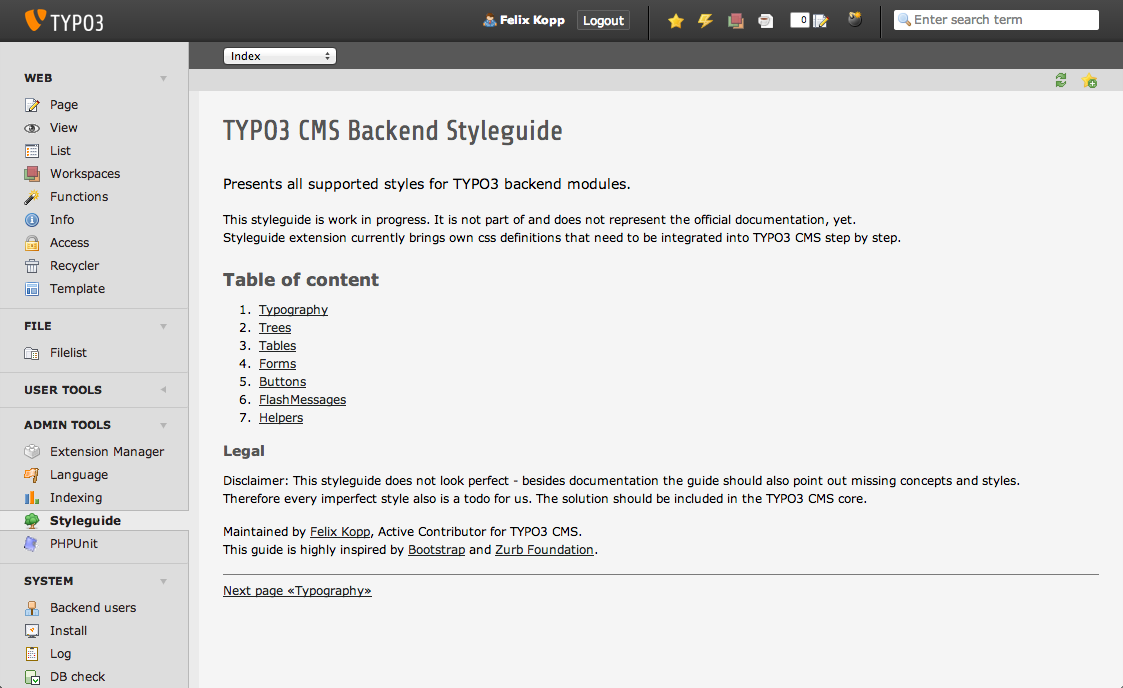
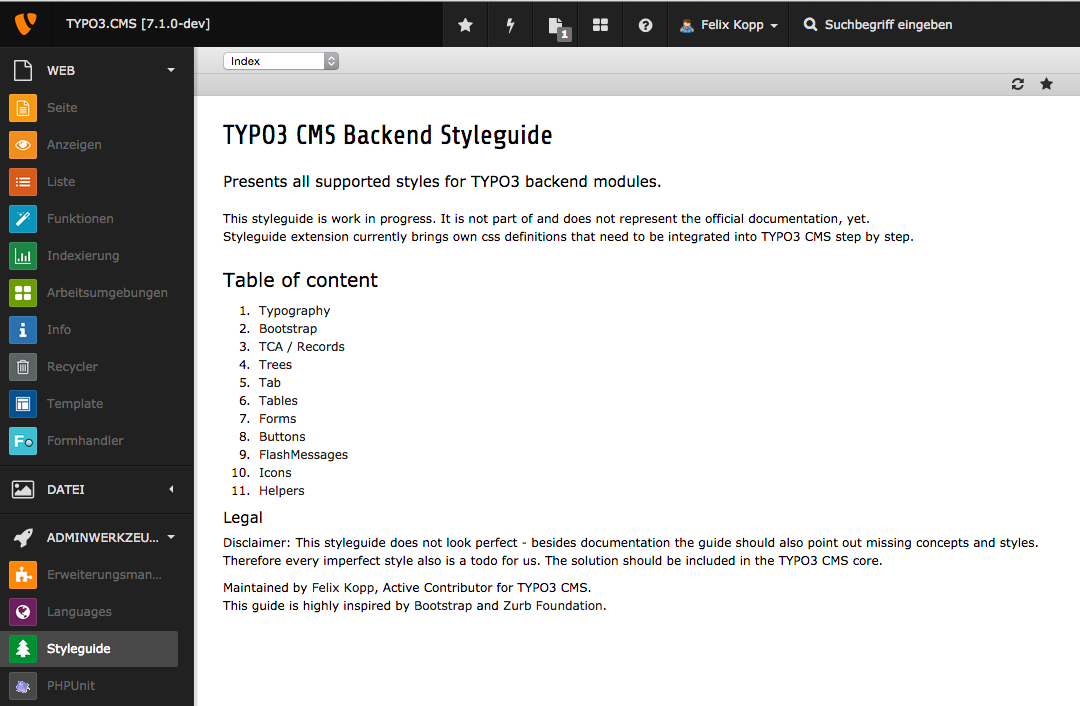
[FEATURE] README screenshot

diff --git a/README.md b/README.md
@@ -14,7 +14,7 @@ Presents all supported styles for TYPO3 backend modules.
 This styleguide is work in progress. It is not part of and does not represent the official documentation, yet.
 Styleguide extension currently brings own css definitions that need to be integrated into TYPO3 CMS step by step.
 
-![](Documentation/Tables.png)
+![](Documentation/Index.png)
 
 <a href="http://typo3.org/extensions/repository/view/styleguide" target="_blank">Official repository for TYPO3 CMS extension "styleguide" with changelog.</a>
 
